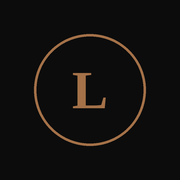
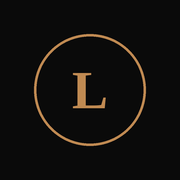
Лагом: настоящие фото, ч/б оформление с деревом, вымышленные мастера, новый заголовок
Claude-Session: https://claude.ai/code/session_018dHtcwjs8ePayddAqgs9cp

diff --git a/index.html b/index.html
@@ -18,10 +18,10 @@
   все данные барбершопа — в config.js, фото — в папке images/.
 -->
 <style>
-:root{--bg:#0e0e0f;--card:#1a1a1c;--line:#2b2b2e;--text:#f1ebe0;--mut:#a29b8f;--gold:#c8a15a;--beige:#e4d4b4;--r:20px;color-scheme:dark}
+:root{--display:"Cormorant Garamond",Georgia,"Times New Roman",serif;--bg:#0e0e0f;--card:#1a1a1c;--line:#2b2b2e;--text:#f1ebe0;--mut:#a29b8f;--gold:#c8a15a;--beige:#e4d4b4;--r:20px;color-scheme:dark}
 *{box-sizing:border-box;margin:0;-webkit-tap-highlight-color:transparent}
 body{background:var(--bg);color:var(--text);font:400 15px/1.55 Manrope,system-ui,-apple-system,"Segoe UI",Roboto,sans-serif;padding:env(safe-area-inset-top,0px) 0 calc(100px + env(safe-area-inset-bottom,0px))}
-h1,h2,h3{font-family:"Cormorant Garamond",Georgia,"Times New Roman",serif;font-weight:600;line-height:1.15}
+h1,h2,h3{font-family:var(--display);font-weight:600;line-height:1.15}
 h2{font-size:28px;margin:34px 0 14px}h3{font-size:21px}
 p{color:var(--mut)}
 img{display:block;width:100%;height:100%;object-fit:cover}
@@ -33,8 +33,8 @@ img{display:block;width:100%;height:100%;object-fit:cover}
 .view{animation:in .3s ease}
 @keyframes in{from{opacity:0;transform:translateY(8px)}}
 .top{display:flex;align-items:center;gap:12px;padding:16px 0}
-.logo{flex:0 0 44px;height:44px;border-radius:50%;border:1.5px solid var(--gold);display:grid;place-items:center;font:700 17px "Cormorant Garamond",serif;color:var(--gold)}
-.brand{font:700 21px "Cormorant Garamond",serif;letter-spacing:.2em;line-height:1.2}
+.logo{flex:0 0 44px;height:44px;border-radius:50%;border:1.5px solid var(--gold);display:grid;place-items:center;font:700 17px var(--display);color:var(--gold)}
+.brand{font:700 21px var(--display);letter-spacing:.2em;line-height:1.2}
 .brand small{display:block;font:400 11px Manrope,sans-serif;letter-spacing:.04em;color:var(--mut)}
 .hero{position:relative;overflow:hidden;border-radius:28px;padding:30px 24px;min-height:380px;display:flex;flex-direction:column;justify-content:flex-end;gap:14px;border:1px solid var(--line);background:radial-gradient(110% 80% at 90% 0,color-mix(in srgb,var(--gold) 28%,transparent),transparent 62%),linear-gradient(160deg,#252527,#0f0f10);background-size:cover;background-position:center}
 .hero>*{position:relative;z-index:1}
@@ -42,8 +42,8 @@ img{display:block;width:100%;height:100%;object-fit:cover}
 .hero p{max-width:min(34ch,calc(100% - 64px));color:#d8d0c2}
 .hero.photo p{max-width:34ch}
 .hero-bg,.hero-shade{position:absolute!important;inset:0;z-index:0!important}.hero-bg{background-size:cover;background-position:center}
-.hero-shade{background:linear-gradient(180deg,rgba(0,0,0,.1),color-mix(in srgb,var(--bg) 94%,transparent) 80%)}
-.bw .ph svg{filter:grayscale(1) brightness(.9)}
+.hero-shade{background:linear-gradient(180deg,rgba(0,0,0,.45),rgba(0,0,0,.35) 30%,color-mix(in srgb,var(--bg) 95%,transparent) 82%)}
+body:not(.toned) .ph svg{filter:grayscale(1) brightness(.9)}
 h3.cat{font-size:24px;margin:26px 0 12px;color:var(--beige)}h3.cat:first-of-type{margin-top:0}
 .pole{position:absolute!important;z-index:0!important;right:26px;top:-30px;width:46px;height:75%;border-radius:0 0 24px 24px;opacity:.9;background:repeating-linear-gradient(135deg,var(--gold) 0 12px,var(--bg) 12px 24px,var(--beige) 24px 36px,var(--bg) 36px 48px);box-shadow:0 0 0 3px var(--bg),0 0 0 4px var(--line)}
 .row{display:flex;gap:10px;flex-wrap:wrap}
@@ -56,7 +56,7 @@ h3.cat{font-size:24px;margin:26px 0 12px;color:var(--beige)}h3.cat:first-of-type
 .art{aspect-ratio:16/10;border-radius:14px;display:grid;place-items:center;color:var(--gold);margin-bottom:14px;overflow:hidden;background:linear-gradient(135deg,#2e2a22,#19191b)}
 .art svg{width:54px}
 .meta{display:flex;justify-content:space-between;align-items:center;margin:12px 0}
-.meta b{font:600 22px "Cormorant Garamond",serif;color:var(--beige)}.meta span{color:var(--mut);font-size:13px}
+.meta b{font:600 22px var(--display);color:var(--beige)}.meta span{color:var(--mut);font-size:13px}
 .svc{display:flex;flex-direction:column}.svc p{flex:1}
 .ph{height:220px;border-radius:14px;margin-bottom:14px;overflow:hidden;background:linear-gradient(160deg,#34302a,#1a1a1c)}
 .ph svg{width:100%;height:100%}
@@ -78,12 +78,12 @@ h3.cat{font-size:24px;margin:26px 0 12px;color:var(--beige)}h3.cat:first-of-type
 .bar i{display:block;height:100%;border-radius:8px;transition:width .4s;background:repeating-linear-gradient(135deg,var(--gold) 0 8px,var(--beige) 8px 16px)}
 .opt{display:flex;gap:14px;align-items:center;width:100%;text-align:left;font:inherit;color:inherit;cursor:pointer;transition:.2s}
 .opt .ic{flex:0 0 50px;height:50px;border-radius:14px;display:grid;place-items:center;color:var(--gold);background:#26241f;overflow:hidden}.opt .ic svg{width:28px}.opt .ic .ph{width:50px;height:50px;margin:0;border-radius:14px}
-.opt .t{flex:1}.opt .t b{display:block;font-weight:600}.opt .t span{color:var(--mut);font-size:13px}.opt .p{font:600 19px "Cormorant Garamond",serif;color:var(--beige);white-space:nowrap}
+.opt .t{flex:1}.opt .t b{display:block;font-weight:600}.opt .t span{color:var(--mut);font-size:13px}.opt .p{font:600 19px var(--display);color:var(--beige);white-space:nowrap}
 .sel{border-color:var(--gold)!important;background:color-mix(in srgb,var(--gold) 11%,transparent)!important}
 .dates{display:flex;gap:8px;overflow-x:auto;padding:2px 0 8px;scrollbar-width:none}
 .date{flex:0 0 58px;padding:10px 0;text-align:center;border-radius:16px;border:1px solid var(--line);background:var(--card);color:var(--text);font:inherit;cursor:pointer}
 .date:disabled{opacity:.3;cursor:not-allowed}
-.date small{display:block;color:var(--mut);font-size:12px}.date b{font:600 21px "Cormorant Garamond",serif}
+.date small{display:block;color:var(--mut);font-size:12px}.date b{font:600 21px var(--display)}
 .slots{display:grid;grid-template-columns:repeat(4,1fr);gap:8px}
 .slot{padding:12px 0;border-radius:12px;border:1px solid var(--line);background:var(--card);color:var(--text);font:inherit;cursor:pointer;transition:.15s}
 .slot:disabled{opacity:.28;text-decoration:line-through;cursor:not-allowed}
@@ -95,6 +95,14 @@ h3.cat{font-size:24px;margin:26px 0 12px;color:var(--beige)}h3.cat:first-of-type
 .ok .ring{width:92px;height:92px;margin:0 auto 18px;border-radius:50%;border:2px solid var(--gold);display:grid;place-items:center;color:var(--gold);animation:pop .5s cubic-bezier(.2,1.4,.4,1)}
 @keyframes pop{from{transform:scale(.4);opacity:0}}
 .map{height:200px;border-radius:var(--r);border:1px solid var(--line);background:#161617;position:relative;overflow:hidden}
+.gal{display:flex;gap:12px;overflow-x:auto;scroll-snap-type:x mandatory;margin:0 -18px;padding:0 18px 6px;scrollbar-width:none}
+.gal figure{flex:0 0 72%;margin:0;aspect-ratio:4/5;border-radius:18px;overflow:hidden;position:relative;scroll-snap-align:start;background:var(--card);border:1px solid var(--line)}
+.gal img{position:absolute;inset:0}.gal figcaption{position:absolute;left:0;right:0;bottom:0;padding:28px 14px 12px;font-size:13px;color:#fff;background:linear-gradient(transparent,rgba(0,0,0,.75))}
+.cphoto{aspect-ratio:4/3;border-radius:var(--r);overflow:hidden;position:relative;border:1px solid var(--line)}.cphoto img{position:absolute;inset:0}
+.tex .btn:not(.ghost),.tex .bar i{background:var(--tex) center/cover;color:#1b130b;text-shadow:0 1px 0 rgba(255,255,255,.25)}
+.tex .logo{border-width:2px}
+@media(min-width:700px){.gal figure{flex-basis:30%}}
+.toned .gal img,.toned .cphoto img,.bw .gal img,.bw .cphoto img{filter:grayscale(1) contrast(1.12) brightness(.8)}
 .note{margin:24px 0 0;font-size:12px;text-align:center;color:var(--mut)}
 @media(min-width:700px){.g3{grid-template-columns:repeat(3,1fr)}.g2{grid-template-columns:1fr 1fr}.hero{min-height:460px;padding:56px}.hero h1{font-size:68px}.pole{right:70px;width:64px}.slots{grid-template-columns:repeat(6,1fr)}.brand{font-size:24px}}
 @media(prefers-reduced-motion:reduce){*{animation:none!important;transition:none!important}}
@@ -191,13 +199,14 @@ const views={
 home:()=>{const ph=C.hero.photo;return `<section class="view">
  <div class="hero ${ph?'photo':''}">${ph?`<div class="hero-bg" style="background-image:url('${esc(ph)}')"></div><div class="hero-shade"></div>`:'<div class="pole"></div>'}<h1>${esc(C.hero.title)}</h1><p>${esc(C.hero.text)}</p><div class="row">${Btn('Записаться','go:booking')}${Btn('Наши мастера','go:barbers','ghost')}</div></div>
  ${SecHead('Популярные услуги','Все услуги','services')}<div class="grid g3">${popular().map(ServiceCard).join('')}</div>
+ ${C.gallery&&C.gallery.length?SecHead(esc(C.galleryTitle||'Наши работы'))+`<div class="gal">${C.gallery.map(g=>`<figure>${img(g.photo,g.caption||'')}${g.caption?`<figcaption>${esc(g.caption)}</figcaption>`:''}</figure>`).join('')}</div>`:''}
  ${C.advantages&&C.advantages.length?SecHead('Почему '+esc(C.brand.shortName||C.brand.name))+`<div class="grid g2">${C.advantages.map(a=>`<div class="card adv">${icon('star',26)}<div><b>${esc(a[0])}</b><span style="color:var(--mut)">${esc(a[1])}</span></div></div>`).join('')}</div>`:''}
  ${SecHead('Как нас найти')}<div class="card">${Info('pin','Адрес',esc(C.contacts.address))}${Info('clock','Часы работы',hoursText())}</div></section>`},
 services:()=>`<section class="view">${SecHead('Услуги','Мастера','barbers')}${ServiceGrid(SERVICES)}</section>`,
 barbers:()=>`<section class="view">${SecHead('Наши мастера','Услуги','services')}<div class="grid g3">${BARBERS.map(BarberCard).join('')}</div></section>`,
 contacts:()=>`<section class="view">${SecHead('Контакты')}<div class="card">${Info('pin','Адрес',esc(C.contacts.address))}${Info('phone','Телефон',`<a href="${telHref}">${esc(C.contacts.phone)}</a>`)}${Info('clock','Часы работы',hoursText())}</div>
  ${Messengers()}
- <div class="map" role="img" aria-label="Схема проезда"><svg viewBox="0 0 400 200" width="100%" height="100%" preserveAspectRatio="xMidYMid slice"><g stroke="#2b2b2e" stroke-width="10" fill="none"><path d="M-10 60L410 90M-10 150L410 120M90-10L130 210M260-10L230 210"/></g><g stroke="#232325" stroke-width="3" fill="none"><path d="M-10 105L410 105M180-10L190 210"/></g><g transform="translate(176 56) scale(1.8)" fill="var(--gold)" stroke="var(--bg)"><path d="M12 21s7-6.2 7-12a7 7 0 10-14 0c0 5.8 7 12 7 12z"/><circle cx="12" cy="9" r="2.5" fill="var(--bg)"/></g></svg></div>
+ ${C.contacts.photo?`<div class="cphoto">${img(C.contacts.photo,'Вход в '+C.brand.name)}</div>`:''}<div class="map" ${C.contacts.photo?'hidden':''} role="img" aria-label="Схема проезда"><svg viewBox="0 0 400 200" width="100%" height="100%" preserveAspectRatio="xMidYMid slice"><g stroke="#2b2b2e" stroke-width="10" fill="none"><path d="M-10 60L410 90M-10 150L410 120M90-10L130 210M260-10L230 210"/></g><g stroke="#232325" stroke-width="3" fill="none"><path d="M-10 105L410 105M180-10L190 210"/></g><g transform="translate(176 56) scale(1.8)" fill="var(--gold)" stroke="var(--bg)"><path d="M12 21s7-6.2 7-12a7 7 0 10-14 0c0 5.8 7 12 7 12z"/><circle cx="12" cy="9" r="2.5" fill="var(--bg)"/></g></svg></div>
  ${C.contacts.mapUrl?`<a class="btn ghost full" style="margin-top:12px" href="${esc(C.contacts.mapUrl)}" target="_blank" rel="noopener">Открыть на карте</a>`:''}</section>`,
 booking:()=>EXTERNAL?External():S.done?Done():Booking()};
 
@@ -256,6 +265,13 @@ const R=document.documentElement.style,col=C.colors||{};
 if(col.background)R.setProperty('--bg',col.background);
 if(col.accent)R.setProperty('--gold',col.accent);
 if(col.accentLight)R.setProperty('--beige',col.accentLight);
+if(col.text)R.setProperty('--text',col.text);
+if(col.muted)R.setProperty('--mut',col.muted);
+if(col.card)R.setProperty('--card',col.card);
+if(col.line)R.setProperty('--line',col.line);
+if(col.texture){R.setProperty('--tex',`url('${col.texture}')`);document.body.classList.add('tex')}
+const F=C.fonts||{};
+if(F.display){const l=document.createElement('link');l.rel='stylesheet';l.href='https://fonts.googleapis.com/css2?family='+encodeURIComponent(F.display)+':wght@400;500;600&display=swap';document.head.appendChild(l);R.setProperty('--display',`'${F.display}',${F.fallback||'system-ui,sans-serif'}`)}
 document.title=C.brand.name+' — запись онлайн';
 $('meta[name="theme-color"]').content=col.background||'#0e0e0f';
 $('#top').innerHTML=`<div class="logo">${esc(C.brand.monogram)}</div><div class="brand">${esc(C.brand.name)}<small>${esc(C.brand.tagline)}</small></div>`;

diff --git a/config.js b/config.js
@@ -10,29 +10,37 @@
   - У услуги можно указать: "priceTo" (цена «от–до»), "price": 0 (Бесплатно), "category" (раздел на странице услуг),
     "bookable": false (без кнопки записи, например бесплатные допуслуги), "icon": null и "photo": null (карточка без картинки).
   - "showDuration": false — длительность услуг клиентам не показывается (но учитывается при подборе времени записи).
+  - Необязательно: "colors.text/muted/card/line" (цвета текста и карточек), "colors.texture" (фактура для кнопок, напр. дерево),
+    "fonts": {"display": "Jost"} (шрифт заголовков из Google Fonts), "gallery": [{"photo","caption"}] (лента фото на главной),
+    "contacts.photo" (фото входа вместо схемы карты).
   - После изменений запустите: python3 tools/build.py  (обновит иконки, манифест и кеш).
 
-  Клиент: барбершоп «Лагом», Воронеж, Плехановская ул., 19. Данные и цены — из карточки 2ГИС (05.11.2026).
+  Клиент: барбершоп «Лагом», Воронеж, Плехановская ул., 19. Цены — из карточки 2ГИС (05.11.2026), фото — из карточек 2ГИС и Яндекс Карт. Мастера — вымышленные, для примера.
 */
 window.BH_CONFIG = {
   "brand": {
-    "name": "LAGOM",
+    "name": "LÁGOM",
     "shortName": "Лагом",
     "monogram": "L",
-    "tagline": "Барбершоп в Воронеже",
+    "tagline": "Men's haircut · Воронеж",
     "city": "Воронеж"
   },
   "colors": {
-    "background": "#0c0c0c",
-    "accent": "#a47148",
-    "accentLight": "#f1ece4"
+    "background": "#0a0a0a",
+    "card": "#151515",
+    "line": "#2a2a2a",
+    "text": "#f4f4f2",
+    "muted": "#9d9d9d",
+    "accent": "#c08a52",
+    "accentLight": "#f4f4f2",
+    "texture": "images/wood.jpg"
   },
-  "photoStyle": "bw",
+  "photoStyle": "original",
   "showDuration": false,
   "hero": {
-    "title": "Стрижка в самый раз",
-    "text": "Мужские и детские стрижки, моделирование бороды и уход за лицом в центре Воронежа. Рейтинг 5,0 в 2ГИС.",
-    "photo": "https://images.unsplash.com/photo-1585747860715-2ba37e788b70?auto=format&fit=crop&w=1200&q=75"
+    "title": "Let's get it started",
+    "text": "Мужские и детские стрижки, борода и уход в центре Воронежа. Кофе, своя парковка и мастера, которые слышат, что вы хотите.",
+    "photo": "images/hero.jpg"
   },
   "services": [
     {
@@ -42,7 +50,7 @@ window.BH_CONFIG = {
       "duration": 60,
       "description": "Начинается с подробной консультации: мастер подберёт стрижку под форму лица, тип волос и ваш образ жизни.",
       "icon": "scissors",
-      "photo": "https://images.unsplash.com/photo-1647140655214-e4a2d914971f?auto=format&fit=crop&w=1200&q=75",
+      "photo": "images/cut.jpg",
       "category": "Стрижки",
       "popular": true,
       "priceTo": 2500
@@ -54,7 +62,7 @@ window.BH_CONFIG = {
       "duration": 90,
       "description": "Стрижка и полное моделирование бороды: распаривание, форма, контур и уход.",
       "icon": "scissors",
-      "photo": "https://images.unsplash.com/photo-1503951914875-452162b0f3f1?auto=format&fit=crop&w=1200&q=75",
+      "photo": "images/cut-beard.jpg",
       "category": "Стрижки",
       "popular": true,
       "priceTo": 4000
@@ -66,7 +74,7 @@ window.BH_CONFIG = {
       "duration": 30,
       "description": "Стрижка машинкой, до 3 насадок, без ножниц. Два мытья головы.",
       "icon": "scissors",
-      "photo": "https://images.unsplash.com/photo-1621605815971-fbc98d665033?auto=format&fit=crop&w=1200&q=75",
+      "photo": "images/clipper.jpg",
       "category": "Стрижки",
       "popular": false,
       "priceTo": 1500
@@ -78,7 +86,7 @@ window.BH_CONFIG = {
       "duration": 60,
       "description": "Стрижка машинкой до 3 насадок, два мытья головы и моделирование бороды.",
       "icon": "scissors",
-      "photo": "https://images.unsplash.com/photo-1599351431202-1e0f0137899a?auto=format&fit=crop&w=1200&q=75",
+      "photo": "images/clipper-beard.jpg",
       "category": "Стрижки",
       "popular": false,
       "priceTo": 3000
@@ -90,7 +98,7 @@ window.BH_CONFIG = {
       "duration": 45,
       "description": "Комплексная процедура: распаривание, качественный гель, форма и чёткий контур.",
       "icon": "scissors",
-      "photo": "https://images.unsplash.com/photo-1599011176306-4a96f1516d4d?auto=format&fit=crop&w=1200&q=75",
+      "photo": "images/beard.jpg",
       "category": "Стрижки",
       "popular": true,
       "priceTo": 1500
@@ -102,7 +110,7 @@ window.BH_CONFIG = {
       "duration": 45,
       "description": "Аккуратная стрижка для маленьких джентльменов — быстро и спокойно.",
       "icon": "scissors",
-      "photo": "https://images.unsplash.com/photo-1657105052497-f996284ffff8?auto=format&fit=crop&w=1200&q=75",
+      "photo": "images/kids.jpg",
       "category": "Стрижки",
       "popular": false,
       "priceTo": 1900
@@ -167,35 +175,36 @@ window.BH_CONFIG = {
   ],
   "barbers": [
     {
-      "id": "dmitry",
-      "name": "Дмитрий",
-      "role": "Барбер",
-      "description": "",
-      "tags": [],
+      "id": "m1",
+      "name": "Максим",
+      "role": "Старший барбер",
+      "description": "Классические и современные мужские стрижки, точные переходы.",
+      "tags": [
+        "Фейд",
+        "Классика"
+      ],
       "photo": null
     },
     {
-      "id": "alena",
-      "name": "Алёна",
+      "id": "m2",
+      "name": "Артём",
       "role": "Барбер",
-      "description": "",
-      "tags": [],
+      "description": "Борода и усы: форма, контур, камуфляж.",
+      "tags": [
+        "Борода",
+        "Камуфляж"
+      ],
       "photo": null
     },
     {
-      "id": "victoria",
-      "name": "Виктория",
+      "id": "m3",
+      "name": "Егор",
       "role": "Барбер",
-      "description": "",
-      "tags": [],
-      "photo": null
-    },
-    {
-      "id": "andrey",
-      "name": "Андрей",
-      "role": "Барбер",
-      "description": "",
-      "tags": [],
+      "description": "Терпеливо стрижёт детей и подростков.",
+      "tags": [
+        "Детские стрижки",
+        "Машинка"
+      ],
       "photo": null
     }
   ],
@@ -223,7 +232,8 @@ window.BH_CONFIG = {
     "telegram": "lagom_voronezh1",
     "whatsapp": null,
     "vk": "https://vk.com/lagom_voronezh",
-    "mapUrl": "https://yandex.ru/maps/org/lagom/179953687466/"
+    "mapUrl": "https://yandex.ru/maps/org/lagom/179953687466/",
+    "photo": "images/facade.jpg"
   },
   "schedule": {
     "mon": [
@@ -262,5 +272,44 @@ window.BH_CONFIG = {
     "slotStep": 30,
     "daysAhead": 14
   },
-  "demoNote": "Демо-версия приложения для барбершопа «Лагом», подготовлена как предложение. Не является официальным сайтом. Фото: Unsplash."
+  "demoNote": "Демо-версия приложения для барбершопа «Лагом», подготовлена как предложение. Не является официальным сайтом. Мастера указаны для примера.",
+  "fonts": {
+    "display": "Jost",
+    "fallback": "system-ui,sans-serif"
+  },
+  "gallery": [
+    {
+      "photo": "images/g-crop.jpg",
+      "caption": "Кроп с плавным фейдом"
+    },
+    {
+      "photo": "images/g-kid.jpg",
+      "caption": "Детская стрижка"
+    },
+    {
+      "photo": "images/g-teen.jpg",
+      "caption": "Работа ножницами"
+    },
+    {
+      "photo": "images/g-camo.jpg",
+      "caption": "Камуфляж бороды"
+    },
+    {
+      "photo": "images/g-mask.jpg",
+      "caption": "Уход за лицом"
+    },
+    {
+      "photo": "images/g-lounge.jpg",
+      "caption": "Зона ожидания"
+    },
+    {
+      "photo": "images/g-clay.jpg",
+      "caption": "Собственная косметика LÁGOM"
+    },
+    {
+      "photo": "images/g-street.jpg",
+      "caption": "Плехановская, 19"
+    }
+  ],
+  "galleryTitle": "Работы и атмосфера"
 };

diff --git a/sw.js b/sw.js
@@ -1,6 +1,6 @@
 // Сгенерировано tools/build.py — не редактируйте вручную.
-const V='v-2d16fb4684';
-const SHELL=['./','index.html','config.js','manifest.webmanifest','icons/icon-192.png','icons/icon-512.png','icons/apple-touch-icon.png'];
+const V='v-6e4bf2bcb2';
+const SHELL=['./','index.html','config.js','manifest.webmanifest','icons/icon-192.png','icons/icon-512.png','icons/apple-touch-icon.png','images/beard.jpg','images/clipper-beard.jpg','images/clipper.jpg','images/cut-beard.jpg','images/cut.jpg','images/facade.jpg','images/g-camo.jpg','images/g-clay.jpg','images/g-crop.jpg','images/g-kid.jpg','images/g-lounge.jpg','images/g-mask.jpg','images/g-street.jpg','images/g-teen.jpg','images/hero.jpg','images/kids.jpg','images/wood.jpg'];
 self.addEventListener('install',e=>{e.waitUntil(caches.open(V).then(c=>c.addAll(SHELL)).then(()=>self.skipWaiting()))});
 self.addEventListener('activate',e=>{e.waitUntil(caches.keys().then(k=>Promise.all(k.filter(x=>x!==V).map(x=>caches.delete(x)))).then(()=>self.clients.claim()))});
 self.addEventListener('fetch',e=>{
